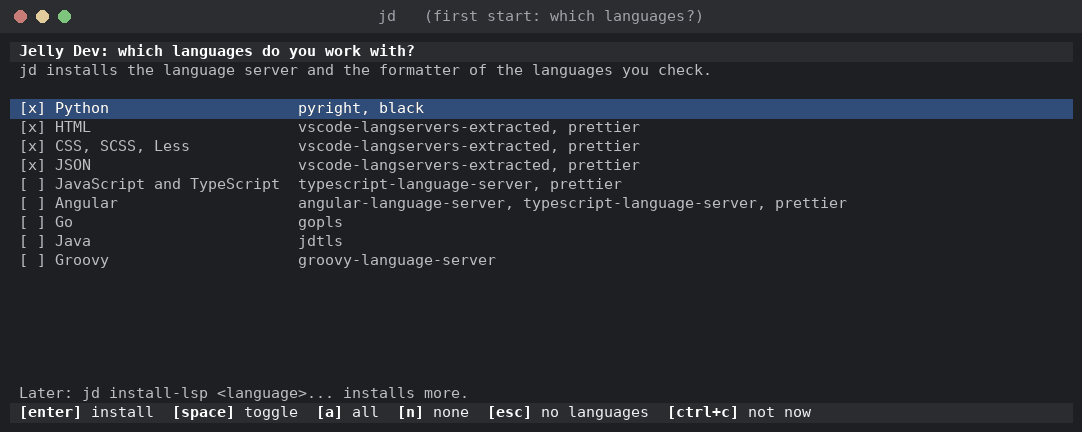
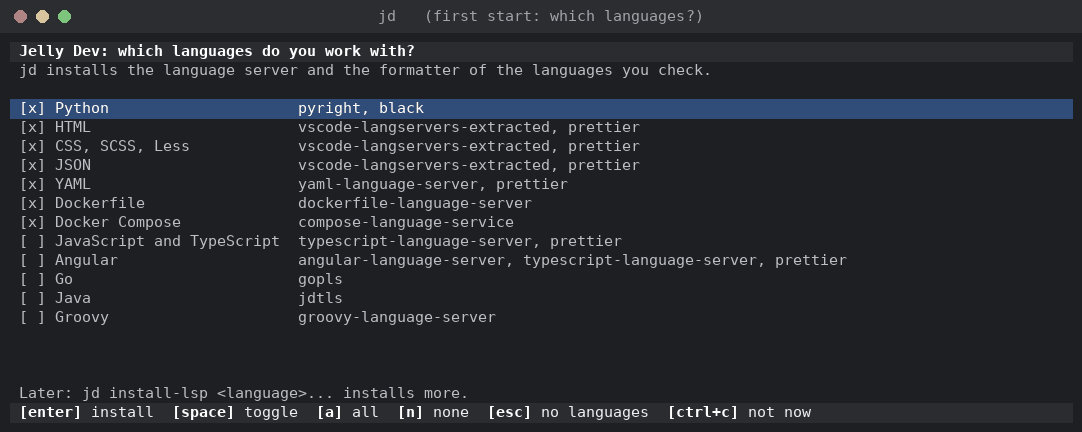
feat: Dockerfile, Docker Compose and YAML language servers, installed by default
The default languages are python, html, css, json, yaml, docker and compose. A Dockerfile goes to
the Dockerfile server, docker-compose and compose files to the Compose server, other YAML to the
YAML server (prettier formats it). File names match as whole names or patterns, not as suffixes of
any name.

diff --git a/internal/lsp/servers.go b/internal/lsp/servers.go
@@ -6,6 +6,7 @@ import (
 	"fmt"
 	"io/fs"
 	"os"
+	"path"
 	"path/filepath"
 	"strings"
 )
@@ -46,6 +47,11 @@ func DefaultServers() []ServerSpec {
 		{Name: "html", Command: []string{"vscode-html-language-server", "--stdio"}, Extensions: []string{".html", ".htm"}, LanguageID: "html", Formatter: prettier},
 		{Name: "css", Command: []string{"vscode-css-language-server", "--stdio"}, Extensions: []string{".css", ".scss", ".less"}, LanguageIDs: map[string]string{".css": "css", ".scss": "scss", ".less": "less"}, Formatter: prettier},
 		{Name: "json", Command: []string{"vscode-json-language-server", "--stdio"}, Extensions: []string{".json", ".jsonc"}, LanguageID: "json", Formatter: prettier},
+		{Name: "yaml", Command: []string{"yaml-language-server", "--stdio"}, Extensions: []string{".yaml", ".yml"}, LanguageID: "yaml", Formatter: prettier},
+		// Dockerfile, api.dockerfile, Dockerfile.dev; docker-compose.yml, compose.yaml, docker-compose.override.yml. The longest entry
+		// wins, so a Compose file goes to the Compose server and not to the YAML server
+		{Name: "dockerfile", Command: []string{"docker-langserver", "--stdio"}, Extensions: []string{"dockerfile", "dockerfile.*"}, LanguageID: "dockerfile"},
+		{Name: "compose", Command: []string{"docker-compose-langserver", "--stdio"}, Extensions: []string{"docker-compose.yml", "docker-compose.yaml", "compose.yml", "compose.yaml", "docker-compose.*.yml", "docker-compose.*.yaml", "compose.*.yml", "compose.*.yaml"}, LanguageID: "dockercompose"},
 		{Name: "jdtls", Command: []string{"jdtls"}, Extensions: []string{".java"}, LanguageID: "java", RootMarkers: []string{"pom.xml", "build.gradle", "build.gradle.kts"}},
 		{Name: "groovy", Command: []string{"groovy-language-server"}, Extensions: []string{".groovy", ".gradle"}, LanguageID: "groovy", RootMarkers: []string{"build.gradle", "settings.gradle"}},
 	}
@@ -86,6 +92,24 @@ func LoadServers(configPath string) ([]ServerSpec, error) {
 	return servers, nil
 }
 
+// matchesName tells whether a file name (in lower case) belongs to an entry of a server's extensions: ".go" matches the end of the
+// name (".component.html" too); a pattern with * or ? ("dockerfile.*", "docker-compose.*.yml") matches the whole name; a plain name
+// ("dockerfile") matches the whole name or the end of it after a dot, a dash or an underscore ("api.dockerfile"), not "mydockerfile".
+func matchesName(name, ext string) bool {
+	switch {
+	case strings.ContainsAny(ext, "*?["):
+		matched, _ := path.Match(ext, name)
+		return matched
+	case strings.HasPrefix(ext, "."):
+		return strings.HasSuffix(name, ext) && len(name) > len(ext)-1
+	case name == ext:
+		return true
+	case strings.HasSuffix(name, ext):
+		return strings.ContainsRune(".-_", rune(name[len(name)-len(ext)-1]))
+	}
+	return false
+}
+
 // specFor returns the server for a file and the language id to send for it. An extension may have several dots
 // (".component.html"); the longest match wins, so Angular templates go to the Angular server and other HTML to the HTML server.
 func specFor(servers []ServerSpec, path string) (ServerSpec, string, bool) {
@@ -94,7 +118,7 @@ func specFor(servers []ServerSpec, path string) (ServerSpec, string, bool) {
 	for i, spec := range servers {
 		for _, candidate := range spec.Extensions {
 			ext := strings.ToLower(candidate)
-			if strings.HasSuffix(lower, ext) && len(lower) > len(ext)-1 && len(ext) > bestLen {
+			if matchesName(lower, ext) && len(ext) > bestLen {
 				best, bestLen, bestExt = i, len(ext), ext
 			}
 		}

diff --git a/internal/ui/languages_test.go b/internal/ui/languages_test.go
@@ -38,25 +38,25 @@ func languageKeys(m LanguagesModel, keys ...string) LanguagesModel {
 	return m
 }
 
-func TestLanguages_StartWithPythonHtmlCssAndJsonChecked(t *testing.T) {
+func TestLanguages_StartWithTheDefaultLanguagesChecked(t *testing.T) {
 	m, outcome := languagesModel(t)
 	view := stripANSI(m.View())
-	for _, want := range []string{"which languages do you work with", "[x] Python", "[x] HTML", "[x] CSS", "[x] JSON", "[ ] Go", "[ ] Java", "pyright, black", "[enter] install"} {
+	for _, want := range []string{"which languages do you work with", "[x] Python", "[x] HTML", "[x] CSS", "[x] JSON", "[x] YAML", "[x] Dockerfile", "[x] Docker Compose", "[ ] Go", "[ ] Java", "pyright, black", "[enter] install"} {
 		if !strings.Contains(view, want) {
 			t.Fatalf("the question lacks %q:\n%s", want, view)
 		}
 	}
 	m = languageKeys(m, "enter")
-	if !reflect.DeepEqual(outcome.Chosen, []string{"python", "html", "css", "json"}) || outcome.Skipped {
+	if !reflect.DeepEqual(outcome.Chosen, []string{"python", "html", "css", "json", "yaml", "docker", "compose"}) || outcome.Skipped {
 		t.Fatalf("enter takes the defaults: %+v", outcome)
 	}
 }
 
 func TestLanguages_ToggleAllNoneAndSkip(t *testing.T) {
 	m, outcome := languagesModel(t)
-	m = languageKeys(m, " ") // the first entry, Python, unchecked
-	m = languageKeys(m, "down", "down", "down", "down", "down", " ")
-	if got := m.checkedIDs(); !reflect.DeepEqual(got, []string{"html", "css", "json", "angular"}) {
+	m = languageKeys(m, " ")                                    // the first entry, Python, unchecked
+	m = languageKeys(m, append(rowsDown("javascript"), " ")...) // down to JavaScript
+	if got := m.checkedIDs(); !reflect.DeepEqual(got, []string{"html", "css", "json", "yaml", "docker", "compose", "javascript"}) {
 		t.Fatalf("space toggles the entry under the cursor: %v", got)
 	}
 	m = languageKeys(m, "a")
@@ -87,7 +87,7 @@ func TestLanguages_AClickTogglesAndTheHintsAreClickable(t *testing.T) {
 	m, outcome := languagesModel(t)
 	updated, _ := m.Update(tea.MouseMsg{Action: tea.MouseActionPress, Button: tea.MouseButtonLeft, X: 5, Y: languagesTop + 1}) // HTML
 	m = updated.(LanguagesModel)
-	if got := m.checkedIDs(); !reflect.DeepEqual(got, []string{"python", "css", "json"}) {
+	if got := m.checkedIDs(); !reflect.DeepEqual(got, []string{"python", "css", "json", "yaml", "docker", "compose"}) {
 		t.Fatalf("a click toggles the row: %v", got)
 	}
 	var x int
@@ -108,4 +108,18 @@ func TestLanguages_AClickTogglesAndTheHintsAreClickable(t *testing.T) {
 		}
 	}
 	t.Fatal("the [space] hint must send the space key")
+}
+
+// rowsDown returns the "down" keys that lead from the first row of the list to the language.
+func rowsDown(id string) []string {
+	for i, l := range tools.Languages() {
+		if l.ID == id {
+			keys := make([]string, i)
+			for j := range keys {
+				keys[j] = "down"
+			}
+			return keys
+		}
+	}
+	panic("unknown language " + id)
 }

diff --git a/cmd/jelly-dev/setup_test.go b/cmd/jelly-dev/setup_test.go
@@ -240,17 +240,17 @@ func TestSetup_AsksWhichLanguagesOnceAndPassesThemToTheInstaller(t *testing.T) {
 	env := fake.env(true, "")
 	env.runUI = answerLanguages(&asked, keyEnter) // the defaults
 	setupOnFirstStart(dir, io.Discard, io.Discard, env)
-	if asked != 1 || len(fake.envs) != 1 || fake.envs[0][0] != "JD_LANGS=python,html,css,json" {
+	if asked != 1 || len(fake.envs) != 1 || fake.envs[0][0] != "JD_LANGS=python,html,css,json,yaml,docker,compose" {
 		t.Fatalf("the question is asked and the answer goes to the installer: asked %d, env %v", asked, fake.envs)
 	}
-	if saved, ok := tools.LoadLanguages(dir); !ok || strings.Join(saved, ",") != "python,html,css,json" {
+	if saved, ok := tools.LoadLanguages(dir); !ok || strings.Join(saved, ",") != "python,html,css,json,yaml,docker,compose" {
 		t.Fatalf("the answer is saved: %v %v", saved, ok)
 	}
 	// jd setup later: nobody is asked again, the saved languages are used
 	if code := run([]string{"setup"}, io.Discard, io.Discard, withConfigDir(env, dir)); code != exitOK {
 		t.Fatalf("code %d", code)
 	}
-	if asked != 1 || len(fake.envs) != 2 || fake.envs[1][0] != "JD_LANGS=python,html,css,json" {
+	if asked != 1 || len(fake.envs) != 2 || fake.envs[1][0] != "JD_LANGS=python,html,css,json,yaml,docker,compose" {
 		t.Fatalf("the question is asked only initially: asked %d, env %v", asked, fake.envs)
 	}
 }
@@ -285,9 +285,9 @@ func TestSetup_OtherLanguagesAreChosenWithTheKeys(t *testing.T) {
 	dir, fake, asked := t.TempDir(), &installerFake{}, 0
 	env := fake.env(true, "")
 	down := tea.KeyMsg{Type: tea.KeyDown}
-	env.runUI = answerLanguages(&asked, keySpace, down, down, down, down, down, down, keySpace, keyEnter) // Python off, Go on
+	env.runUI = answerLanguages(&asked, keySpace, down, down, down, down, down, down, down, down, down, keySpace, keyEnter) // Python off, Go on
 	setupOnFirstStart(dir, io.Discard, io.Discard, env)
-	if fake.envs[0][0] != "JD_LANGS=html,css,json,go" {
+	if fake.envs[0][0] != "JD_LANGS=html,css,json,yaml,docker,compose,go" {
 		t.Fatalf("python off, go on: %v", fake.envs)
 	}
 }
@@ -316,7 +316,7 @@ func TestSetup_JdLangsFromTheEnvironmentOrNoTerminalAsksNobody(t *testing.T) {
 	if code := run([]string{"setup"}, io.Discard, io.Discard, env2); code != exitOK {
 		t.Fatalf("code %d", code)
 	}
-	if asked != 0 || fake2.envs[0][0] != "JD_LANGS=python,html,css,json" {
+	if asked != 0 || fake2.envs[0][0] != "JD_LANGS=python,html,css,json,yaml,docker,compose" {
 		t.Fatalf("without a terminal nobody is asked and the defaults are used: asked %d, %v", asked, fake2.envs)
 	}
 	if _, ok := tools.LoadLanguages(dir); ok {

diff --git a/internal/lsp/servers_docker_test.go b/internal/lsp/servers_docker_test.go
@@ -1,0 +1,59 @@
+package lsp
+
+import (
+	"testing"
+
+	"github.com/eutima/jelly-dev/internal/tools"
+)
+
+func TestSpecFor_DockerfilesComposeFilesAndYamlGoToTheirOwnServers(t *testing.T) {
+	servers := DefaultServers()
+	tests := map[string][2]string{
+		"/p/Dockerfile":                  {"dockerfile", "dockerfile"},
+		"/p/api.dockerfile":              {"dockerfile", "dockerfile"},
+		"/p/Dockerfile.dev":              {"dockerfile", "dockerfile"},
+		"/p/docker-compose.yml":          {"compose", "dockercompose"},
+		"/p/docker-compose.yaml":         {"compose", "dockercompose"},
+		"/p/docker-compose.override.yml": {"compose", "dockercompose"},
+		"/p/compose.yaml":                {"compose", "dockercompose"},
+		"/p/compose.prod.yml":            {"compose", "dockercompose"},
+		"/p/prod.docker-compose.yml":     {"compose", "dockercompose"},
+		"/p/config/values.yaml":          {"yaml", "yaml"},
+		"/p/.github/workflows/ci.yml":    {"yaml", "yaml"},
+		"/p/mydockerfile.yml":            {"yaml", "yaml"},
+		"/p/notcompose.yaml":             {"yaml", "yaml"},
+	}
+	for path, want := range tests {
+		spec, languageID, ok := specFor(servers, path)
+		if !ok || spec.Name != want[0] || languageID != want[1] {
+			t.Errorf("%s: server %q language %q (found %v), want %v", path, spec.Name, languageID, ok, want)
+		}
+	}
+	for _, path := range []string{"/p/notes.txt", "/p/mydockerfile", "/p/composeyml", "/p/Makefile"} {
+		if spec, _, ok := specFor(servers, path); ok {
+			t.Errorf("%s has no server, found %s", path, spec.Name)
+		}
+	}
+}
+
+// every language server of the defaults can be installed: its command is the binary of a tool of the installer, or one more
+// binary of the package of such a tool (vscode-langservers-extracted installs the HTML, CSS and JSON servers together)
+func TestDefaultServers_EveryServerHasAToolThatInstallsIt(t *testing.T) {
+	binaries := map[string]bool{}
+	for _, tool := range tools.Defaults() {
+		binaries[tool.Binary] = true
+	}
+	samePackage := map[string]string{
+		"vscode-css-language-server":  "vscode-html-language-server",
+		"vscode-json-language-server": "vscode-html-language-server",
+	}
+	for _, server := range DefaultServers() {
+		command := server.Command[0]
+		if other, ok := samePackage[command]; ok {
+			command = other
+		}
+		if !binaries[command] {
+			t.Errorf("server %s (%s) has no tool in tools.Defaults()", server.Name, server.Command[0])
+		}
+	}
+}

diff --git a/internal/tools/languages_test.go b/internal/tools/languages_test.go
@@ -32,9 +32,9 @@ func TestParseLanguages_KeepsTheCatalogOrderAndKnowsAll(t *testing.T) {
 
 func TestToolsFor_LanguageServersAndFormattersOnceEach(t *testing.T) {
 	got := ToolsFor(DefaultLanguages())
-	want := []string{"pyright", "vscode-langservers-extracted", "prettier", "black"} // in the order of Defaults()
+	want := []string{"pyright", "vscode-langservers-extracted", "yaml-language-server", "dockerfile-language-server", "compose-language-service", "prettier", "black"} // the order of Defaults() is the order of the tools
 	if !reflect.DeepEqual(got, want) {
-		t.Fatalf("python, html, css and json need %v, got %v", want, got)
+		t.Fatalf("the default languages need %v, got %v", want, got)
 	}
 	if ToolsFor(nil) != nil {
 		t.Fatal("no language needs no tool")
@@ -46,8 +46,8 @@ func TestToolsFor_LanguageServersAndFormattersOnceEach(t *testing.T) {
 			}
 		}
 	}
-	if !reflect.DeepEqual(DefaultLanguages(), []string{"python", "html", "css", "json"}) {
-		t.Fatalf("the defaults are python, html, css and json: %v", DefaultLanguages())
+	if !reflect.DeepEqual(DefaultLanguages(), []string{"python", "html", "css", "json", "yaml", "docker", "compose"}) {
+		t.Fatalf("the defaults are python, html, css, json, yaml, docker and compose: %v", DefaultLanguages())
 	}
 }
 
@@ -97,8 +97,8 @@ func TestInstaller_OnlyInstallsToolsOfTheChosenLanguages(t *testing.T) {
 	// without any choice the defaults decide
 	fresh := NewInstaller(t.TempDir())
 	fresh.env = env
-	if got := fresh.Pending(true); !reflect.DeepEqual(got, []string{"black", "prettier", "pyright", "vscode-langservers-extracted"}) {
-		t.Fatalf("the defaults are python, html, css, json: %v", got)
+	if got := fresh.Pending(true); !reflect.DeepEqual(got, []string{"black", "compose-language-service", "dockerfile-language-server", "prettier", "pyright", "vscode-langservers-extracted", "yaml-language-server"}) {
+		t.Fatalf("the defaults need these tools: %v", got)
 	}
 }
 

diff --git a/internal/tools/tools.go b/internal/tools/tools.go
@@ -47,9 +47,14 @@ func Defaults() []Tool {
 			Packages: []string{"vscode-langservers-extracted"}, Purpose: "language servers for HTML, CSS and JSON"},
 		{Name: "angular-language-server", Binary: "ngserver", Kind: NPM,
 			Packages: []string{"@angular/language-server", "@angular/language-service", "typescript"}, Purpose: "language server for Angular templates"},
+		{Name: "yaml-language-server", Binary: "yaml-language-server", Kind: NPM, Packages: []string{"yaml-language-server"}, Purpose: "language server for YAML"},
+		{Name: "dockerfile-language-server", Binary: "docker-langserver", Kind: NPM,
+			Packages: []string{"dockerfile-language-server-nodejs"}, Purpose: "language server for Dockerfiles"},
+		{Name: "compose-language-service", Binary: "docker-compose-langserver", Kind: NPM,
+			Packages: []string{"@microsoft/compose-language-service"}, Purpose: "language server for Docker Compose files"},
 		{Name: "jdtls", Binary: "jdtls", Kind: Download, Purpose: "language server for Java"},
 		{Name: "groovy-language-server", Binary: "groovy-language-server", Kind: Download, Purpose: "language server for Groovy"},
-		{Name: "prettier", Binary: "prettier", Kind: NPM, Packages: []string{"prettier"}, Purpose: "formatter for HTML, CSS, JavaScript, TypeScript and JSON"},
+		{Name: "prettier", Binary: "prettier", Kind: NPM, Packages: []string{"prettier"}, Purpose: "formatter for HTML, CSS, JavaScript, TypeScript, JSON and YAML"},
 		{Name: "black", Binary: "black", Kind: Python, Packages: []string{"black"}, Purpose: "formatter for Python"},
 	}
 }

diff --git a/internal/tools/languages.go b/internal/tools/languages.go
@@ -30,6 +30,9 @@ func Languages() []Language {
 		{ID: "html", Name: "HTML", Tools: []string{"vscode-langservers-extracted", "prettier"}},
 		{ID: "css", Name: "CSS, SCSS, Less", Tools: []string{"vscode-langservers-extracted", "prettier"}},
 		{ID: "json", Name: "JSON", Tools: []string{"vscode-langservers-extracted", "prettier"}},
+		{ID: "yaml", Name: "YAML", Tools: []string{"yaml-language-server", "prettier"}},
+		{ID: "docker", Name: "Dockerfile", Tools: []string{"dockerfile-language-server"}},
+		{ID: "compose", Name: "Docker Compose", Tools: []string{"compose-language-service"}},
 		{ID: "javascript", Name: "JavaScript and TypeScript", Tools: []string{"typescript-language-server", "prettier"}},
 		{ID: "angular", Name: "Angular", Tools: []string{"angular-language-server", "typescript-language-server", "prettier"}},
 		{ID: "go", Name: "Go", Tools: []string{"gopls"}},
@@ -39,7 +42,9 @@ func Languages() []Language {
 }
 
 // DefaultLanguages are chosen when the user has not chosen yet.
-func DefaultLanguages() []string { return []string{"python", "html", "css", "json"} }
+func DefaultLanguages() []string {
+	return []string{"python", "html", "css", "json", "yaml", "docker", "compose"}
+}
 
 // ParseLanguages turns "python,html css" (or "all") into language ids, in the order of Languages, without doubles. An
 // unknown name is an error that lists the known ones.

diff --git a/cmd/jelly-dev/main.go b/cmd/jelly-dev/main.go
@@ -40,7 +40,7 @@ const (
   jd setup                   run the installer script again: install the tools the IDE needs and set git up
                              (jd setup --mark-done: only record that the installer did it)
   jd install-lsp [--all] [--list] [<language>...]
-                             install the language servers and formatters of the languages (python html css json
+                             install the language servers and formatters of the languages (python html css json yaml docker compose
                              javascript angular go java groovy; none given: the languages chosen so far)
   jd install-git [--apply] [--local]
                              print (or with --apply write, overwriting existing values) the git diff/merge tool settings`

diff --git a/cmd/jelly-dev/lsp_test.go b/cmd/jelly-dev/lsp_test.go
@@ -56,7 +56,7 @@ func TestInstallLSP_InstallsTheNamedLanguagesAndAddsThemToTheChosenOnes(t *testi
 	if len(fake.asked) != 1 || strings.Join(fake.asked[0], ",") != "go,java" {
 		t.Fatalf("only the named languages are installed now: %v", fake.asked)
 	}
-	if saved, _ := tools.LoadLanguages(dir); strings.Join(saved, ",") != "python,html,css,json,go,java" {
+	if saved, _ := tools.LoadLanguages(dir); strings.Join(saved, ",") != "python,html,css,json,yaml,docker,compose,go,java" {
 		t.Fatalf("they are added to the defaults (nothing was chosen before): %v", saved)
 	}
 	for _, want := range []string{"Installing the language servers and formatters for: go, java", "gopls", "jdtls", "installed", "2 installed, 0 were there already, 0 failed"} {

diff --git a/cmd/jelly-dev/lsp.go b/cmd/jelly-dev/lsp.go
@@ -75,7 +75,7 @@ func runInstallLSP(args []string, stdout, stderr io.Writer, env environment) int
 		languages = requested
 	}
 	if len(languages) == 0 {
-		fmt.Fprintln(stderr, "jd: no language chosen: name some, for example: jd install-lsp python html css json (or --all, --list)")
+		fmt.Fprintln(stderr, "jd: no language chosen: name some, for example: jd install-lsp python html css json yaml docker compose (or --all, --list)")
 		return exitUsage
 	}
 	fmt.Fprintf(stdout, "Installing the language servers and formatters for: %s\n", strings.Join(languages, ", "))

diff --git a/README.md b/README.md
@@ -86,9 +86,9 @@ Windows. A tool that cannot be installed is reported at the end; jd itself works
 used by the IDE from milestone 2 on). The jdtls and groovy-language-server downloads come from their official sites over
 HTTPS and are not checksum-verified.
 
-**Languages**: the language servers and formatters are installed per language: `python`, `html`, `css`, `json`, `javascript`
+**Languages**: the language servers and formatters are installed per language: `python`, `html`, `css`, `json`, `yaml`, `docker` (Dockerfile), `compose` (Docker Compose), `javascript`
 (JavaScript and TypeScript), `angular`, `go`, `java`, `groovy`. The first time jd starts in a terminal it asks which ones you work
-with (python, html, css and json are checked; `space` toggles, `a` all, `n` none, `enter` installs, `esc` chooses no language, `ctrl+c` means "not now" and it asks again
+with (python, html, css, json, yaml, docker and compose are checked; `space` toggles, `a` all, `n` none, `enter` installs, `esc` chooses no language, `ctrl+c` means "not now" and it asks again
 at the next start) and remembers the answer in `languages.json` in the config folder. Only the tools of those languages (and the runtimes they need) are installed, by the
 installer script, and later by the IDE when it starts (`:tools` installs what is missing). Change it any time from the command line,
 which needs no root rights:
@@ -101,7 +101,7 @@ jd install-lsp --all                  # every language
 ```
 
 A missing runtime (Node.js, Python, Go, a JDK) is reported; `jd setup` installs those. The installer script takes the same
-choice as `JD_LANGS=python,html,css,json` (also `all` or `none`).
+choice as `JD_LANGS=python,html,css,json,yaml,docker,compose` (also `all` or `none`).
 
 Options (environment variables): `JELLY_DEV_VERSION` (for example `v0.2.0`) picks a release, `INSTALL_DIR` changes
 the target, `JD_SKIP_GIT_CONFIG=1` leaves the git configuration alone.

diff --git a/reviews/2026-11-21-2112-c109166d.md b/reviews/2026-11-21-2112-c109166d.md
@@ -1,0 +1,19 @@
+# Review 2026-11-21 2112
+diff-hash: c109166d9179d56855b83d86d5e04090655505cc
+scope: commit
+use-case: Add language servers for YAML, Dockerfiles and Docker Compose files and make them part of the default languages jd installs tools for (python, html, css, json, yaml, docker, compose): server specs (Dockerfile, *.dockerfile, Dockerfile.* to the Dockerfile server; docker-compose / compose files incl. .override and .prod variants to the Compose server; other yaml to the YAML server, prettier as formatter), the language catalog and defaults, install.sh and install.ps1 (JD_LANGS gating, Node.js), usage text, README and the languages screenshot; tests for the specs, catalog, defaults and install plan.
+type: tool  tier: 1
+rounds: 1
+result: PASS
+
+## Independent review (final round)
+Verdict: PASS, no P0, no P1.
+
+P2 (reported): the extensions "dockerfile", "compose.yml" were plain suffixes, so mydockerfile / notcompose.yaml went to the Docker servers and Dockerfile.dev / docker-compose.override.yml to none: FIXED (a new matcher: a plain name matches the whole name or the end after . - _, patterns with * or ? match the whole name; the specs list dockerfile.*, docker-compose.*.yml, compose.*.yml ...; tests incl. the false positives). The test loop that claimed to check the tools did not: FIXED (every default server command is the binary of a tool, or one more binary of its package). Purpose text of prettier lacked YAML: FIXED. Test name and comment still said python/html/css/json: FIXED; the fixed count of down presses: FIXED (looked up by language id).
+
+## Security review (final round, tier 2/3 only)
+Not required for tier 1.
+
+## Open items
+- P1 from an earlier review (still open): pin and verify the jdtls and groovy-language-server downloads, or make the automatic tool installation opt-in.
+- The npm packages of the new servers are installed unpinned, like the other npm tools.
